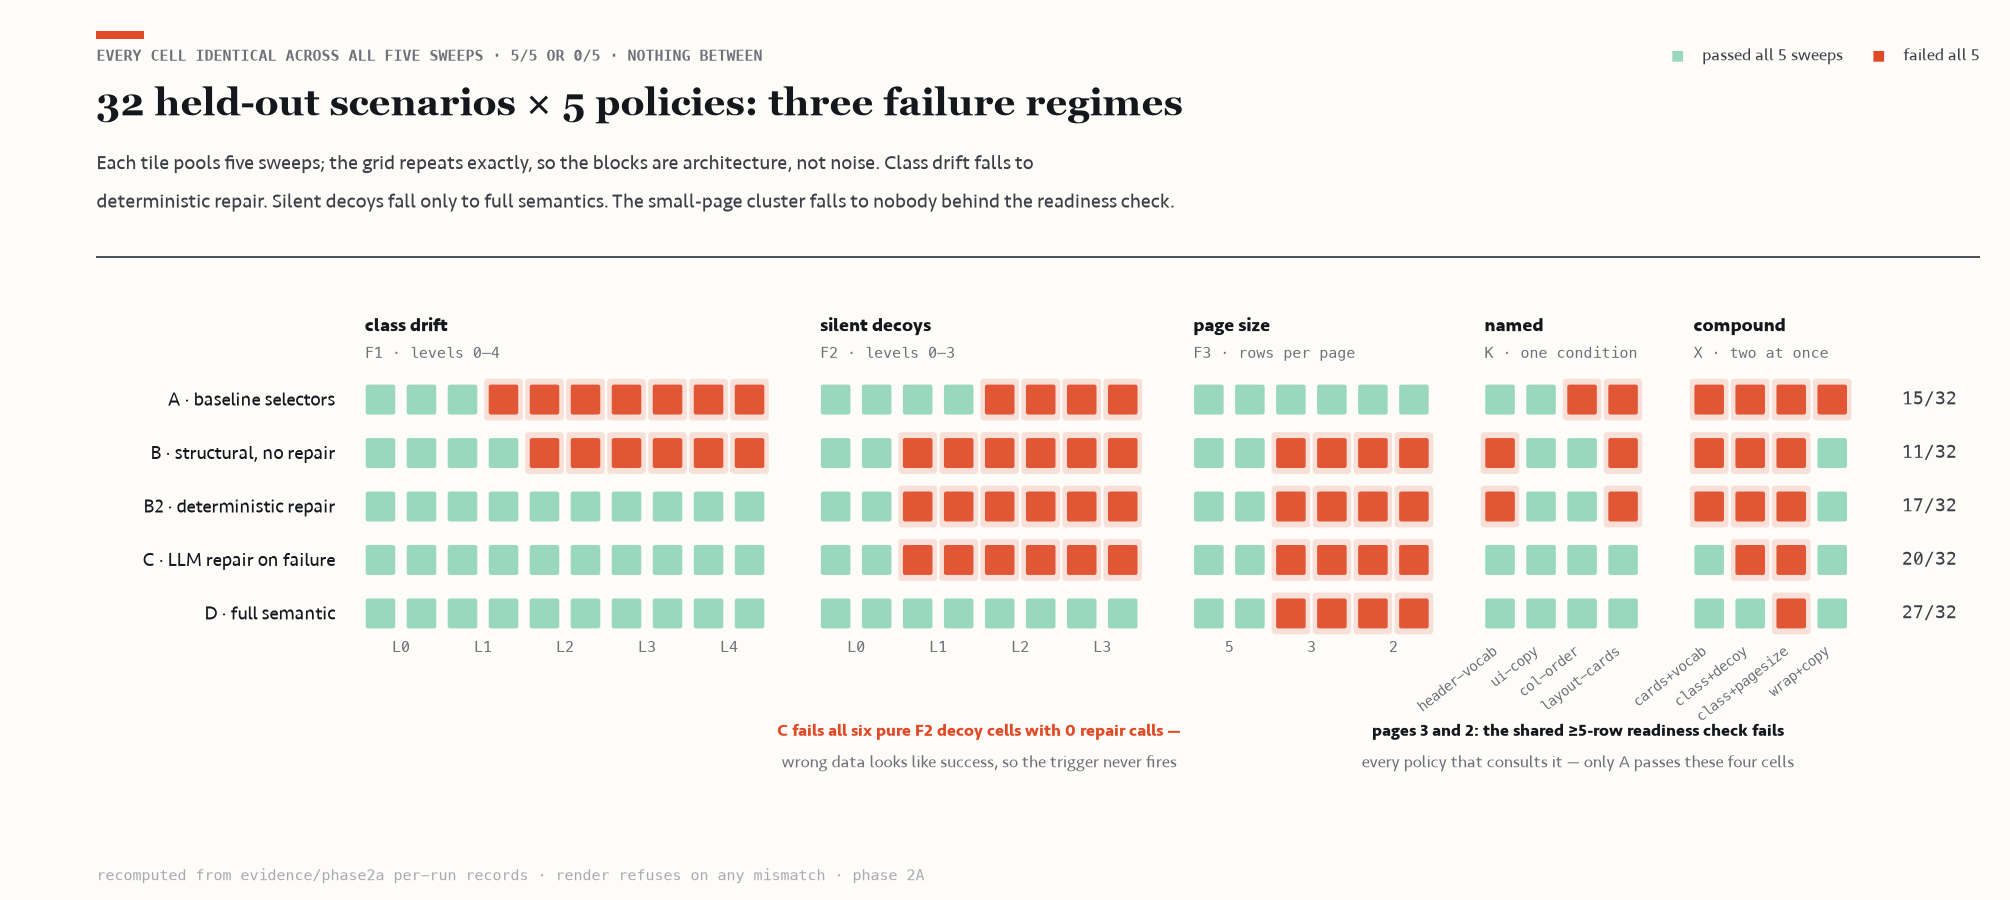
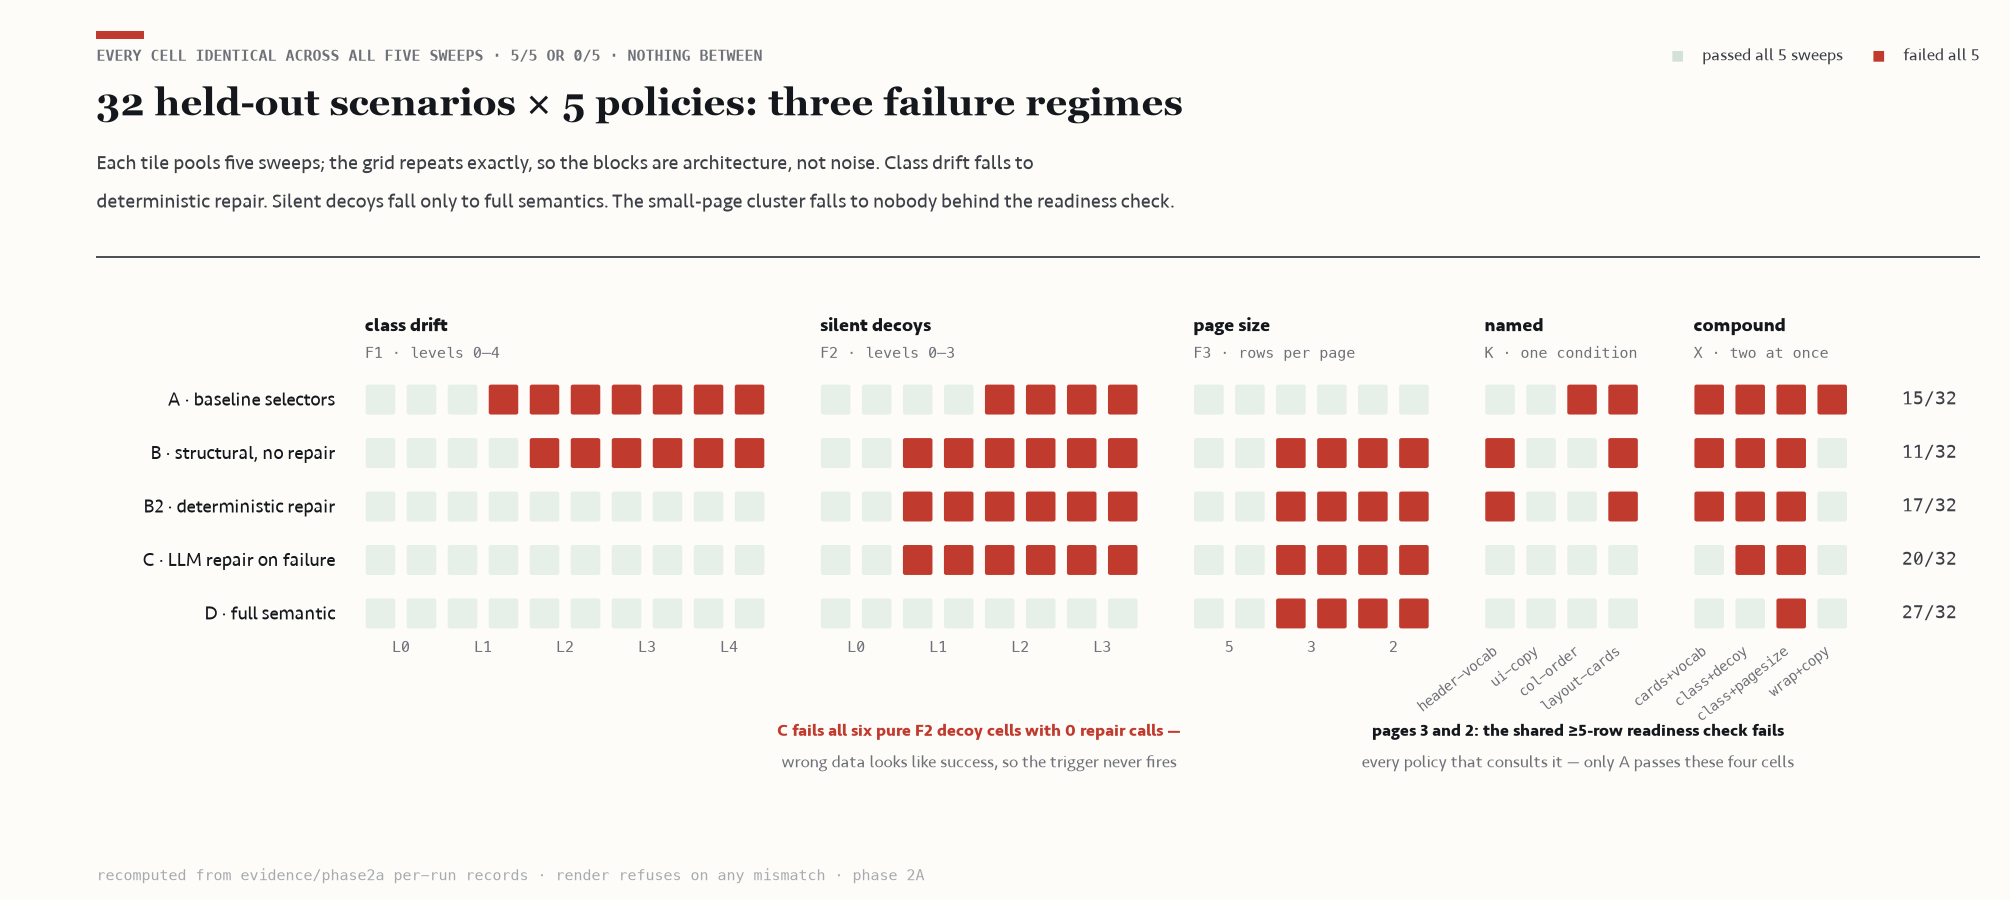
Jewel-register refinement, grounded in dataviz craft research
Researched fine-tuning guidance (Datawrapper/Muth color practice,
Storytelling with Data gray-plus-accent emphasis, Tufte data-ink,
Visual Cinnamon glow construction, modern gradient-mark technique) and
applied it:
- palette moves to deep jewel tones (sapphire/bronze/emerald/amethyst +
  deep warm gray): high chroma at low lightness, so luminosity comes
  from contrast against the paper rather than brightness
- outcome map: passes drop to a near-silent same-hue tint and carmine
  failures own the only saturated ink; per-tile halos removed
- scatter: sheen only on the paid (filled) marks — one tight same-hue
  blur under a crisp core plus a lighter-core highlight; free-policy
  rings stay crisp
- bars: pairs become two lightness steps of one hue, and solid bars
  carry a within-mark vertical gradient (hue at cap fading toward
  paper); the D aura slab is gone, the gradient carries the emphasis

Changed region(s): [[0.1851, 0.4044, 0.9254, 0.7156], [0.401, 0.8089, 0.5552, 0.84], [0.0308, 0.0311, 0.0617, 0.0622]]

diff --git a/scripts/render-phase2a-charts.py b/scripts/render-phase2a-charts.py
@@ -127,17 +127,25 @@ MUTED = "#6E7178"   # secondary labels, ticks
 FAINT = "#A7AAAE"   # footnote, ghost figures
 GRID  = "#E8E4DB"   # hairline grid on paper
 RULE  = "#1F232A"   # header hairline rule
-VERM  = "#E04A26"   # signature vermilion — tab · failures · highlight
+VERM  = "#C13A2E"   # signature carmine — tab · failures · highlight
 
-# Per-policy palette — vivid, modern, still harmonious on warm paper.
+# Per-policy palette — deep jewel register: high chroma at low lightness,
+# varied lightness across hues (luminosity from contrast, not brightness).
 POLICY_COLOR = {
-    "A":  "#7A7466",   # deep warm gray
-    "B":  "#1F7AE0",   # azure
-    "B2": "#F59E0B",   # amber
-    "C":  "#10A76B",   # emerald
-    "D":  "#7C3AED",   # electric violet
+    "A":  "#6E6759",   # deep warm gray
+    "B":  "#31519B",   # sapphire
+    "B2": "#A06A1C",   # bronze-amber
+    "C":  "#146B54",   # emerald
+    "D":  "#63437C",   # amethyst
 }
-PASS = "#10A76B"       # uniform pass-tile green (soft via alpha)
+PASS_TINT = "#E7EFE9"  # near-silent pass tile — the grid's elegance is quiet passes
+
+
+def blend(hex1, hex2, t):
+    """t=0 -> hex1, t=1 -> hex2."""
+    a = [int(hex1[i:i+2], 16) for i in (1, 3, 5)]
+    b = [int(hex2[i:i+2], 16) for i in (1, 3, 5)]
+    return "#" + "".join(f"{round(x + (y - x) * t):02x}" for x, y in zip(a, b))
 
 SERIF = ["Georgia", "Charter", "Palatino", "DejaVu Serif"]              # display headline
 SANS  = ["Seravek", "Avenir Next", "Helvetica Neue", "DejaVu Sans"]     # humanist body
@@ -152,13 +160,28 @@ POLICY_LABEL = {
 }
 
 
+def grad_bar(ax, x, h, w, color, n=180):
+    """Solid bar with a within-mark vertical gradient: full hue at the cap
+    fading toward a paper-lightened base — depth without any outer halo."""
+    import numpy as np
+    from matplotlib import colors as mcolors
+    top = np.array(mcolors.to_rgb(color))
+    bot = np.array(mcolors.to_rgb(blend(color, BG, 0.38)))
+    t = np.linspace(0, 1, n).reshape(-1, 1, 1)
+    img = bot + (top - bot) * t
+    ax.imshow(img, extent=(x - w / 2, x + w / 2, 0, h), origin="lower",
+              aspect="auto", zorder=3, interpolation="bilinear")
+
+
 def dot(ax, x, y, color, s=66, filled=True):
-    """A crisp marker over a whisper of its own colour. Open ring = the
-    policy spends nothing on inference; filled = it pays per run."""
-    ax.scatter([x], [y], s=s * 7.0, color=color, alpha=0.10, lw=0, zorder=2)
-    ax.scatter([x], [y], s=s * 3.5, color=color, alpha=0.18, lw=0, zorder=2)
+    """Open ring = the policy spends nothing on inference; filled = it pays.
+    Only the filled marks carry depth: one tight same-hue blur under a crisp
+    core, plus a lighter-core highlight (gradient-within-hue)."""
     if filled:
+        ax.scatter([x], [y], s=s * 2.8, color=color, alpha=0.20, lw=0, zorder=2)
         ax.scatter([x], [y], s=s, color=color, lw=0.7, edgecolors=BG, zorder=3)
+        ax.scatter([x], [y], s=s * 0.38, color=blend(color, "#FFFFFF", 0.45),
+                   alpha=0.9, lw=0, zorder=4)
     else:
         ax.scatter([x], [y], s=s, facecolors=BG, edgecolors=color, lw=1.6, zorder=3)
 
@@ -244,16 +267,10 @@ def chart_outcome_map(cells):
         y = len(POLICIES) - 1 - yi
         for sid in SCENARIOS:
             passed = all(p for _, p, _ in cells[pol][sid])
-            color = PASS if passed else VERM
-            if not passed:
-                ax.add_patch(FancyBboxPatch(
-                    (xpos[sid] - 0.47, y - 0.39), 0.94, 0.78,
-                    boxstyle="round,pad=0,rounding_size=0.10", mutation_aspect=0.62,
-                    facecolor=VERM, alpha=0.16, edgecolor="none"))
             ax.add_patch(FancyBboxPatch(
                 (xpos[sid] - 0.36, y - 0.28), 0.72, 0.56,
                 boxstyle="round,pad=0,rounding_size=0.06", mutation_aspect=0.62,
-                facecolor=color, alpha=0.42 if passed else 0.92, edgecolor="none"))
+                facecolor=PASS_TINT if passed else VERM, edgecolor="none"))
         npass = sum(all(p for _, p, _ in cells[pol][s]) for s in SCENARIOS)
         ax.text(x - gap + 0.7, y, f"{npass}/32", fontsize=8.8, family=MONO,
                 color=SUB, va="center", ha="left")
@@ -305,7 +322,7 @@ def chart_outcome_map(cells):
            "32 held-out scenarios × 5 policies: three failure regimes",
            "Each tile pools five sweeps; the grid repeats exactly, so the blocks are architecture, not noise. Class drift falls to\n"
            "deterministic repair. Silent decoys fall only to full semantics. The small-page cluster falls to nobody behind the readiness check.",
-           legend=[("passed all 5 sweeps", "#99D8BD"), ("failed all 5", VERM)])
+           legend=[("passed all 5 sweeps", "#D3E2D8"), ("failed all 5", VERM)])
     footnote(fig)
     fig.savefig(OUT / "outcome_map.png", facecolor=BG)
     plt.close(fig)
@@ -383,11 +400,8 @@ def chart_gate_effect(cells):
         col = POLICY_COLOR[pol]
         full = sum(all(p for _, p, _ in cells[pol][s]) for s in SCENARIOS) / 32
         ex = sum(all(p for _, p, _ in cells[pol][s]) for s in SCENARIOS if s not in GATE5) / 27
-        ax.bar(i - w / 2 - 0.02, full * 100, w, facecolor=col,
-               alpha=0.22, edgecolor=col, lw=1.1, zorder=2)
-        if pol == "D":
-            ax.bar(i + w / 2 + 0.02, ex * 100, w * 1.35, color=col, alpha=0.15, zorder=2)
-        ax.bar(i + w / 2 + 0.02, ex * 100, w, color=col, zorder=3)
+        ax.bar(i - w / 2 - 0.02, full * 100, w, color=blend(col, BG, 0.78), zorder=2)
+        grad_bar(ax, i + w / 2 + 0.02, ex * 100, w, col)
         ax.text(i - w / 2 - 0.02, full * 100 + 1.6, f"{full * 100:.0f}", fontsize=8,
                 family=MONO, color=FAINT, ha="center")
         ax.text(i + w / 2 + 0.02, ex * 100 + 1.6, f"{ex * 100:.0f}", fontsize=8.6,
@@ -398,6 +412,7 @@ def chart_gate_effect(cells):
             "the model was never the ceiling; the readiness gate was",
             POLICY_COLOR["D"], ha="center")
 
+    ax.set_xlim(-0.55, len(POLICIES) - 0.45)
     ax.set_xticks(range(len(POLICIES)))
     ax.set_xticklabels([POLICY_LABEL[p] for p in POLICIES], fontsize=8.6,
                        family=SANS, color=INK)
